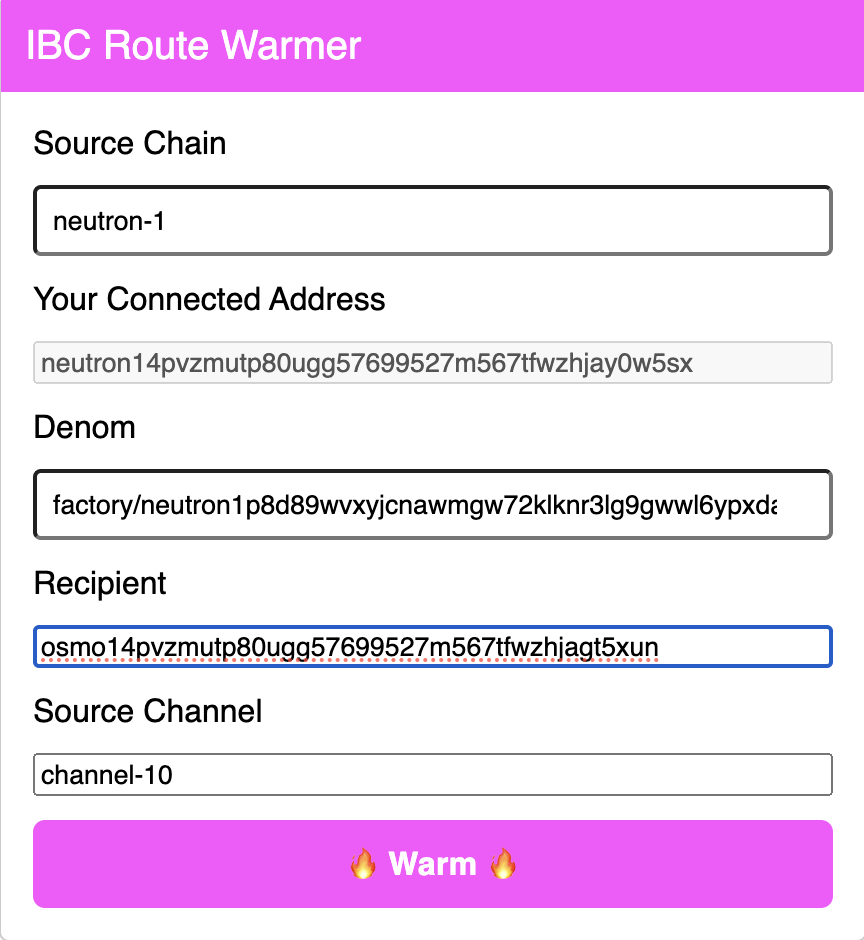
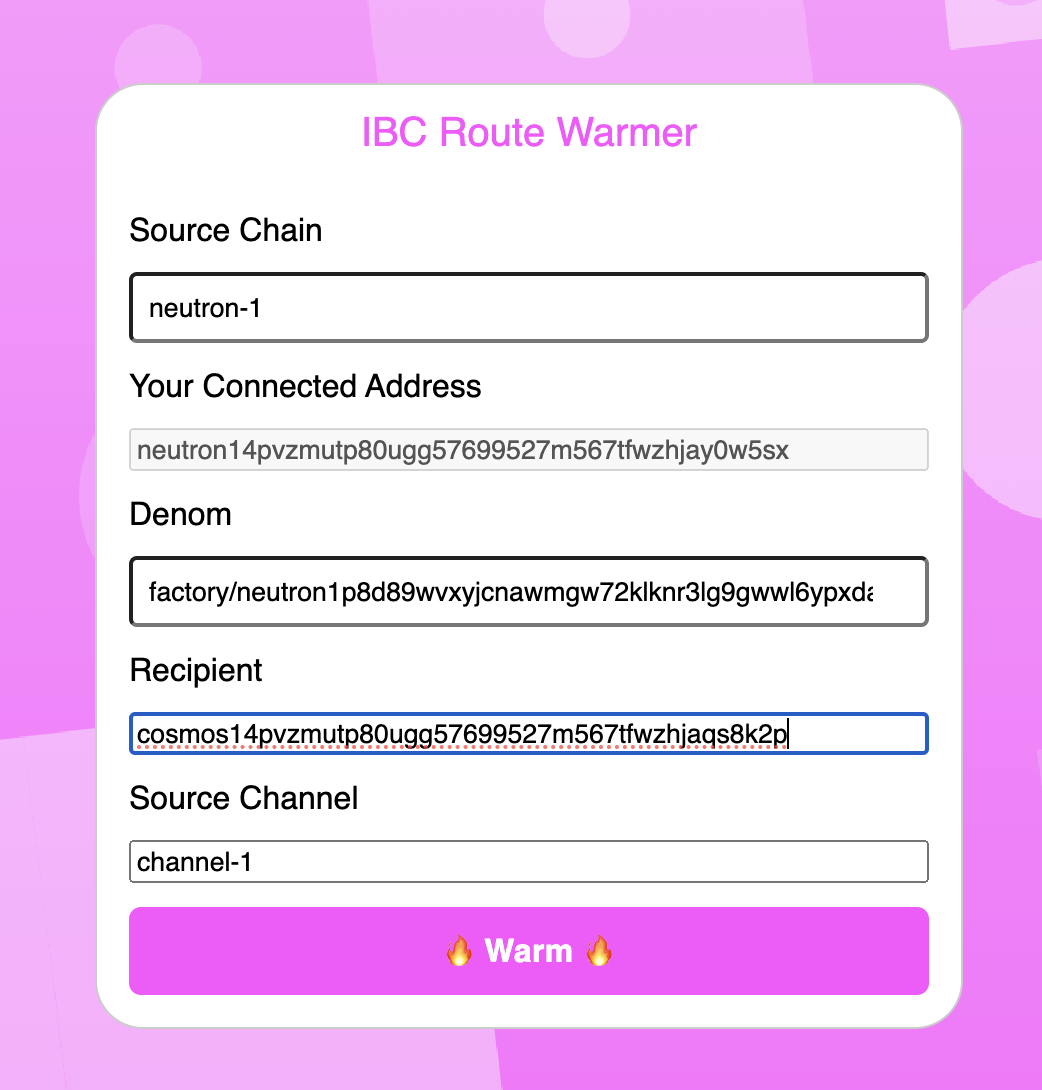
feat: style updates

diff --git a/src/styles/container.css b/src/styles/container.css
@@ -1,13 +1,24 @@
 .root-container {
   display: flex;
   flex-direction: column;
-  justify-content: center;
   align-items: center;
 
-  padding: 20px;
+  background-image: url(../../public/bg.svg);
+  width: 100%;
+  height: 100%;
+
+  padding: 40px;
   margin-bottom: 80px;
+  min-height: 100vh;
 }
 
 * {
   font-family: 'Raleway', sans-serif;
+}
+
+html, body {
+  height: 100%;
+  margin: 0;
+  padding: 0;
+  overflow: hidden;
 }

diff --git a/src/styles/item.css b/src/styles/item.css
@@ -3,14 +3,15 @@
   flex-direction: column;
 
   border: 1px solid #ccc;
-  border-radius: 5px;
+  border-radius: 1.5rem;
+  background-color: #ffffff;
 }
 
 .item-title {
   padding: 12px;
   font-size: 20px;
-  color: #ffffff;
-  background: rgb(255, 79, 255);
+  text-align: center;
+  color: rgb(255, 79, 255)
 }
 
 .item-content {

diff --git a/src/App.tsx b/src/App.tsx
@@ -1,4 +1,4 @@
-import { useState, useMemo, useEffect } from "react";
+import { useState, useMemo } from "react";
 import { Coin } from "@cosmjs/stargate";
 import { MsgTransfer } from "@keplr-wallet/proto-types/ibc/applications/transfer/v1/tx";
 import { Height } from "@keplr-wallet/proto-types/ibc/core/client/v1/client";

diff --git a/src/util/sendMsgs.ts b/src/util/sendMsgs.ts
@@ -101,7 +101,7 @@ export const fetchAccountInfo = async (chainInfo: ChainInfo, address: string) =>
 }
 
 export const broadcastTxSync = async (
-  keplr:Keplr,
+  keplr: Keplr,
   chainId: string,
   tx: Uint8Array,
 ): Promise<Uint8Array> => {
